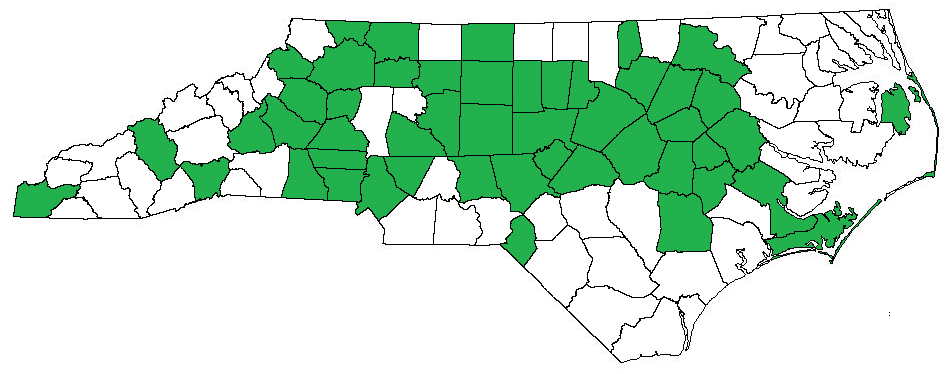
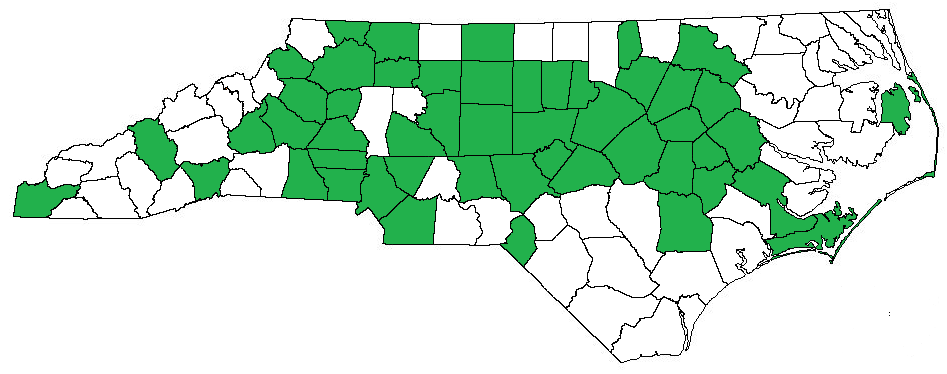
bbq no 50 :) !!

Changed region(s): [[0.3981, 0.5294, 0.4593, 0.6765]]

diff --git a/bbq/bbq-pics.html b/bbq/bbq-pics.html
@@ -584,6 +584,34 @@
         Show Image
 </button></center>
 
+
+<br>
+<p><b>Union County</b></p>
+<p>Stallings Rockstore Bar-B-Q - Stallings</p>
+<p><a id="Rockstore"></p>
+<center><img id="image102" img-src="https://s3.us-east-1.wasabisys.com/cwclaib-website/NC-State-Page/bbq/Stallings Rockstore Bat-B-Q, Stallings/20220522_141531.jpg" width="800"></img></center>
+<center><button type="button"
+        onclick="show( image102, this )" id="btnID">
+        Show Image
+</button></center>
+<center><img id="image103" img-src="https://s3.us-east-1.wasabisys.com/cwclaib-website/NC-State-Page/bbq/Stallings Rockstore Bat-B-Q, Stallings/20220522_141901.jpg" width="800"></img></center>
+<center><button type="button"
+        onclick="show( image103, this )" id="btnID">
+        Show Image
+</button></center>
+<center><img id="image104" img-src="https://s3.us-east-1.wasabisys.com/cwclaib-website/NC-State-Page/bbq/Stallings Rockstore Bat-B-Q, Stallings/20220522_142728.jpg" width="800"></img></center>
+<center><button type="button"
+        onclick="show( image104, this )" id="btnID">
+        Show Image
+</button></center>
+<center><img id="image105" img-src="https://s3.us-east-1.wasabisys.com/cwclaib-website/NC-State-Page/bbq/Stallings Rockstore Bat-B-Q, Stallings/20220522_142833.jpg" width="800"></img></center>
+<center><button type="button"
+        onclick="show( image105, this )" id="btnID">
+        Show Image
+</button></center>
+
+
+
 <br>
 <p><b>Vance County</b></p>
 <p>Golden Skillet - Henderson</p>

diff --git a/bbq/index.html b/bbq/index.html
@@ -52,10 +52,10 @@ Both use vinegar as their base for the sauce, often with red pepper (among other
 <br>
 <center>
 	<h2>Current County Counter</h2>
-	<h3><span style="color:red">49</span> / 100</h3>
-	<h3>67 different in-state BBQ joints</h3>
+	<h3><span style="color:red">50</span> / 100</h3>
+	<h3>68 different in-state BBQ joints</h3>
 	<h3>2 annual BBQ events</h3>
-	<p>(last updated 5/9/2022)</p>
+	<p>(last updated 5/22/2022)</p>
 </center>
 <br>
 
@@ -283,6 +283,11 @@ Both use vinegar as their base for the sauce, often with red pepper (among other
 <p><b>Surry County</b></p>
 <ul>
 	<li>Little Richard's BBQ - Mt. Airy - 1/31/2021</li>
+</ul>
+<br>
+<p><b>Union County</b></p>
+<ul>
+	<li>Stallings Rockstore Bar-B-Q - Stallings - 5/22/2022 - <a href="bbq-pics.html#Rockstore">pictures</a></li>
 </ul>
 <br>
 <p><b>Vance County</b></p>
